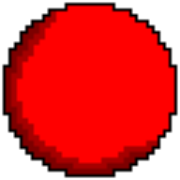
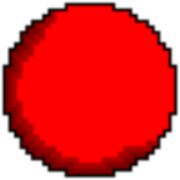
bugfix something tbh i already forgot

diff --git a/index.html b/index.html
@@ -111,7 +111,7 @@ body {
 
 		<script src="index.js"></script>
 		<script>
-const GODOT_CONFIG = {"args":[],"canvasResizePolicy":2,"emscriptenPoolSize":8,"ensureCrossOriginIsolationHeaders":true,"executable":"index","experimentalVK":false,"fileSizes":{"index.pck":4687028,"index.wasm":37686550},"focusCanvas":true,"gdextensionLibs":[],"godotPoolSize":4};
+const GODOT_CONFIG = {"args":[],"canvasResizePolicy":2,"emscriptenPoolSize":8,"ensureCrossOriginIsolationHeaders":true,"executable":"index","experimentalVK":false,"fileSizes":{"index.pck":4687332,"index.wasm":37686550},"focusCanvas":true,"gdextensionLibs":[],"godotPoolSize":4};
 const GODOT_THREADS_ENABLED = false;
 const engine = new Engine(GODOT_CONFIG);
 
